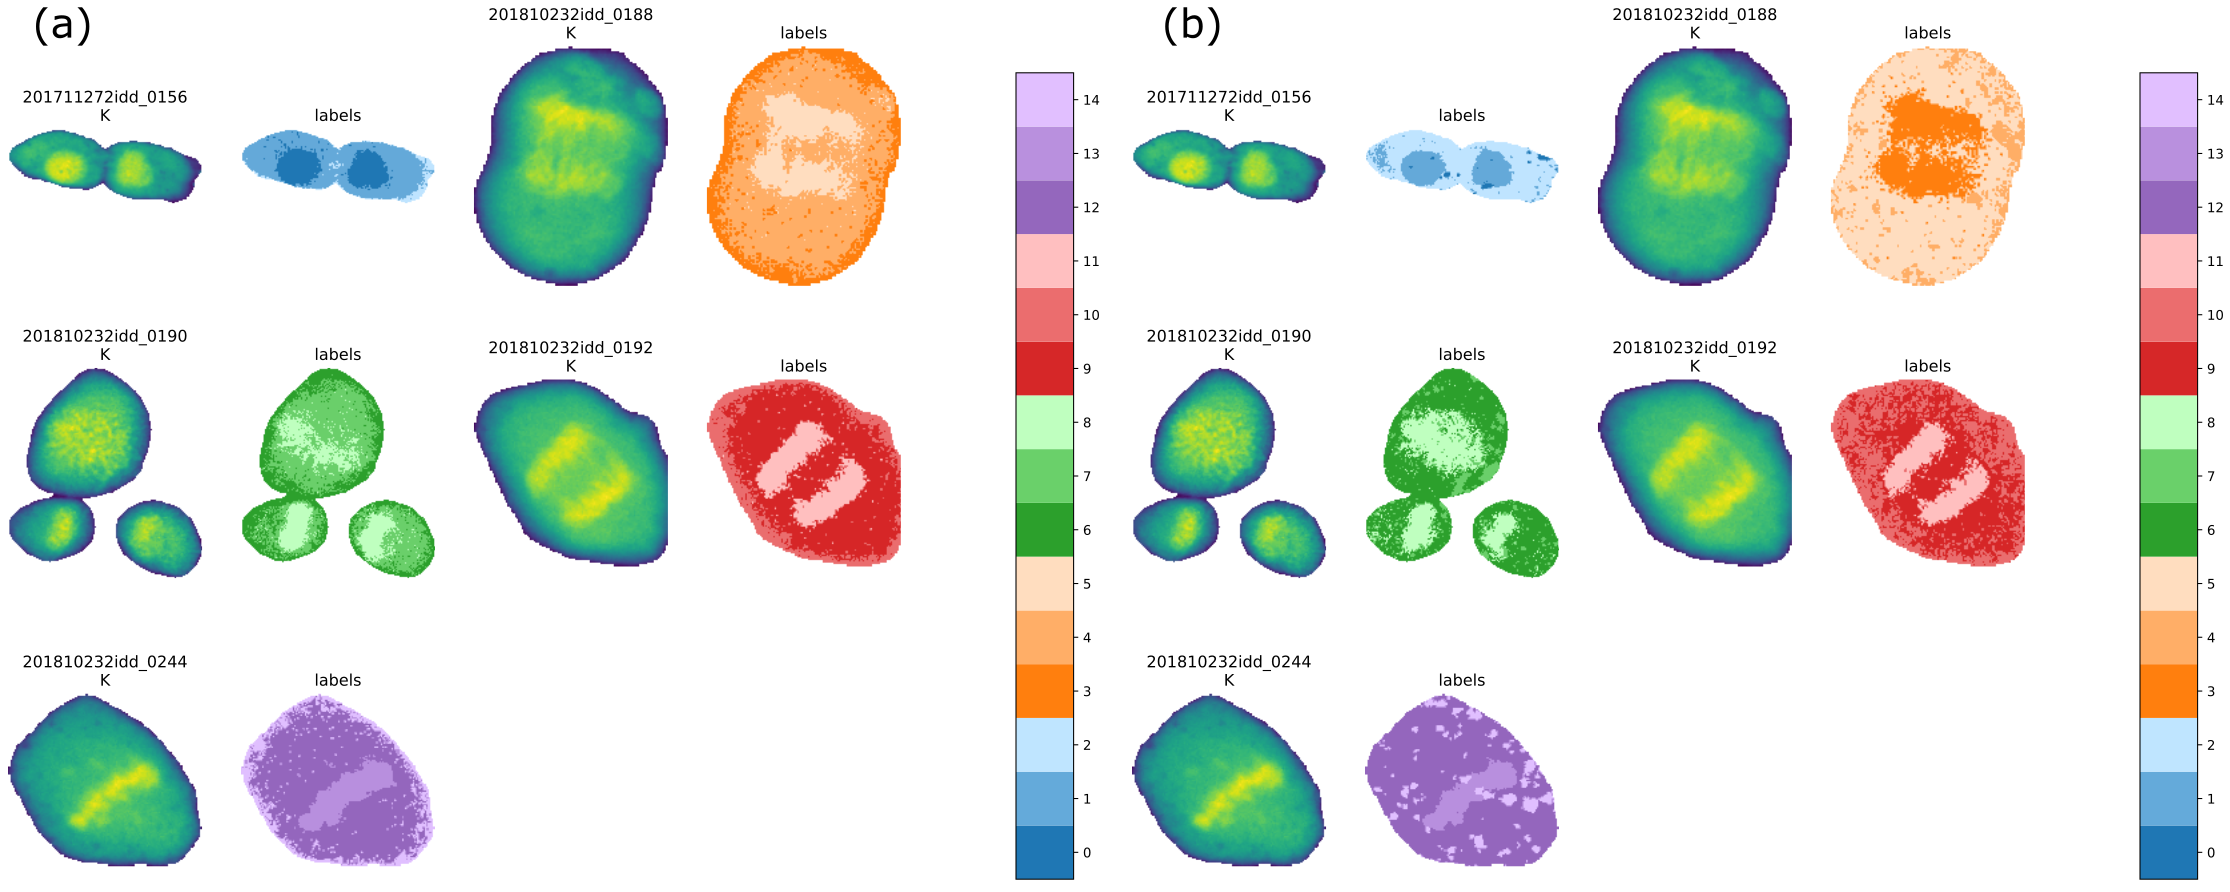
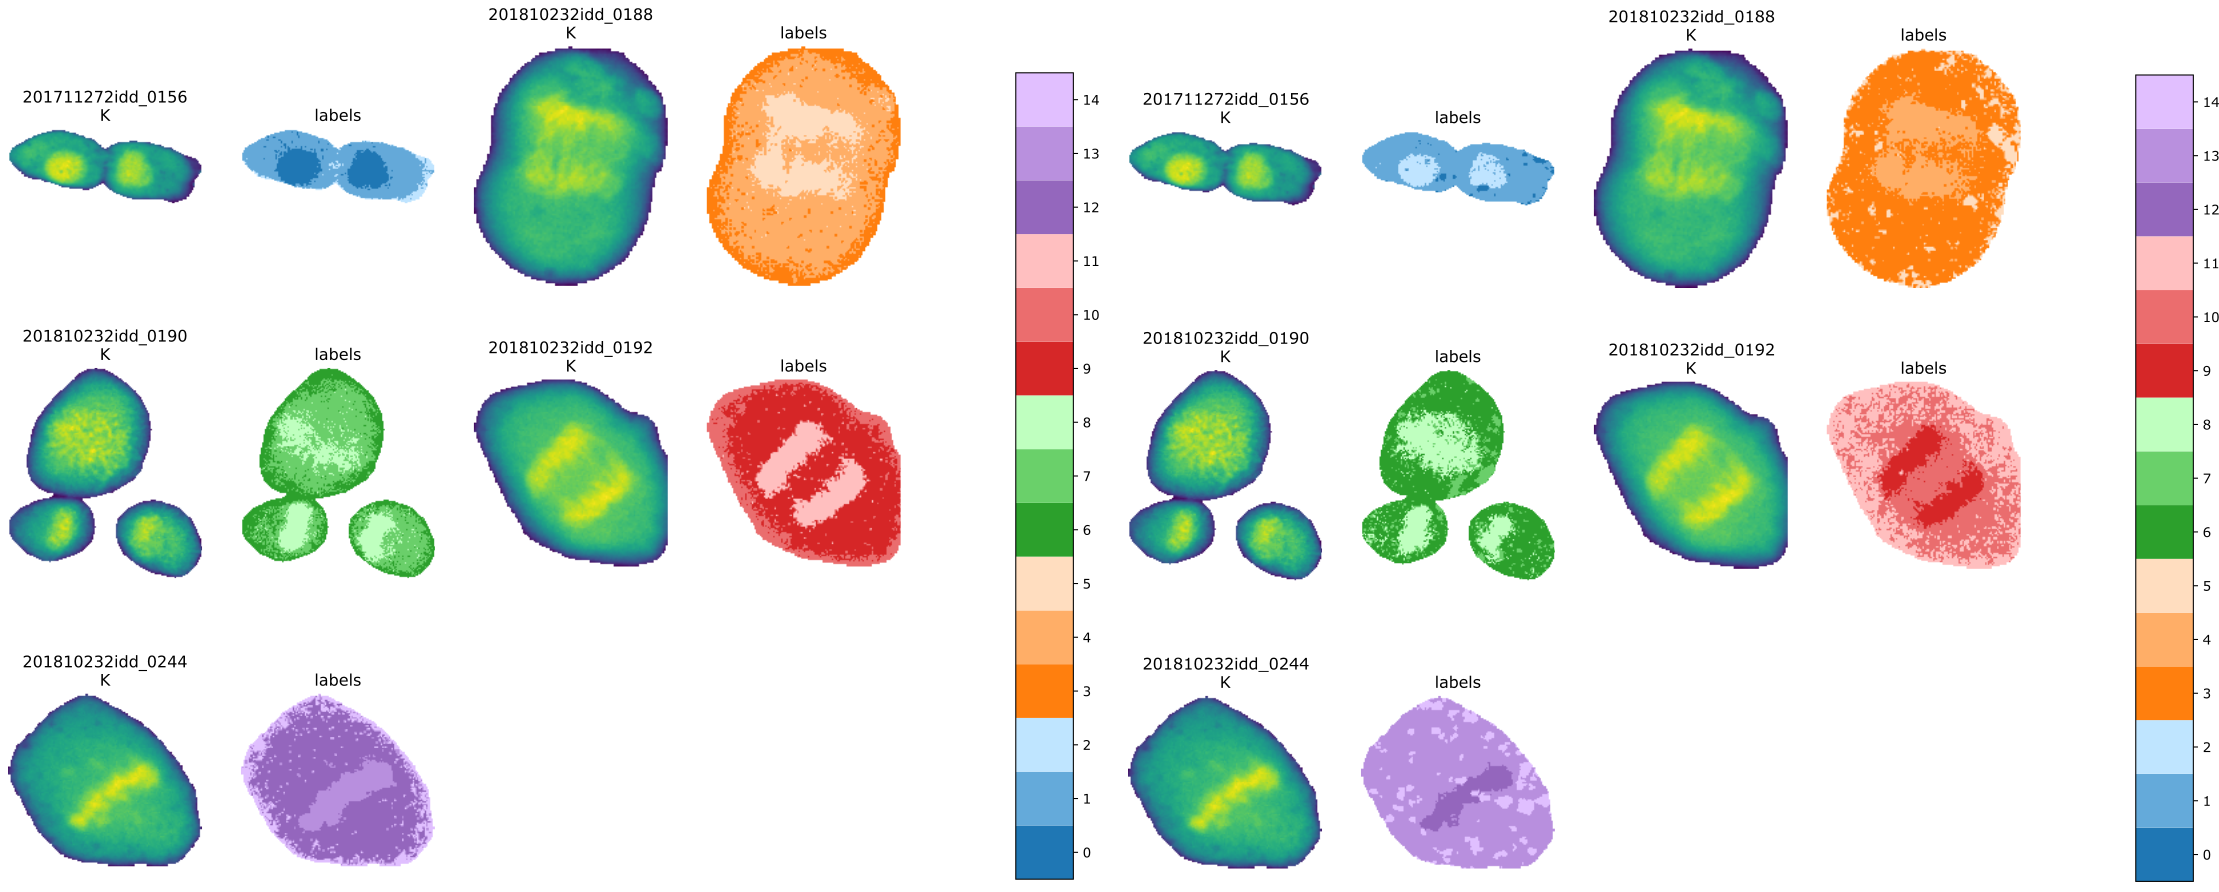
Added cluster correlation.

diff --git a/vMF.tex b/vMF.tex
@@ -63,6 +63,14 @@ $$f(\boldsymbol{x}|\boldsymbol{\mu}, \kappa) = c_d(\kappa)e^{\kappa\boldsymbol{\
 \end{figure}
 \end{frame}
 
+%page 8
+\begin{frame}{Why vMF not Gaussians?}
+\begin{figure}[h]
+  \includegraphics[width=1\textwidth,height=.5\textheight,keepaspectratio]{Normalization.png}
+  \caption{In a 2D XRF projection increasing brightness may be due to overlapping regions or regions with higher concentration making it difficult to discern between the two. Because of this I chose to normalize the data and cluster only based on element composition, not concentration.}
+\end{figure}
+\end{frame}
+
 %page 4
 \subsection[Short Subsection 3 Name]{Full Subsection 3 Name}
 
@@ -78,9 +86,9 @@ $$f(\boldsymbol{x}|\boldsymbol{\mu}, \kappa) = c_d(\kappa)e^{\kappa\boldsymbol{\
 \begin{frame}{Prepossessing BNP data}
 For BNP data each pixel is its own d-dimensional elemental concentration vector, 
 $$\boldsymbol{X_p} = (X_1, X_2, ..., X_d).$$
-Each component, $X_i$, is that elements concentration for a given pixel and has units $\mu g/cm^2$. Normalizing $\boldsymbol{X_p}$ gives relative composition vector,
-$$ \boldsymbol{x_p} = \boldsymbol{X_p}/||\boldsymbol{X_p}||.$$
-representing the percent composition of each element in a given pixel and embedding all points in the positive orthant of the unit hypersphere. 
+Each component, $X_i$, is that elements concentration for a given pixel and has units $\mu g/cm^2$. 
+
+The variance of these elements will be over much different ranges, but vMF is univariate and expect normal distributions. To deal with this we scale our data using a robust scaler. Robust scaler preprocessing rescales element values to the interquartile range.
 \end{frame}
 
 %page 6
@@ -95,15 +103,7 @@ representing the percent composition of each element in a given pixel and embedd
 \begin{frame}{Why preprocess the data?}
 \begin{figure}[h]
   \includegraphics[width=1\textwidth,height=.7\textheight,keepaspectratio]{labels_compare_preprocessing.png}
-  \caption{Side by side of potassium channel and labeled regions for two different preprocessing methods. (a) No preprocessing applied (b) robust scaler preprocessing rescales element values to the interquartile range.}
-\end{figure}
-\end{frame}
-
-%page 8
-\begin{frame}{Why normalize the data?}
-\begin{figure}[h]
-  \includegraphics[width=1\textwidth,height=.5\textheight,keepaspectratio]{Normalization.png}
-  \caption{In a 2D XRF projection increasing brightness may be due to overlapping regions or regions with higher concentration making it difficult to discern between the two. Because of this I chose to normalize the data and cluster only based on element composition, not concentration.}
+  \caption{Side by side of potassium channel and labeled regions for two different preprocessing methods. Left: No preprocessing applied, right: robust scaler preprocessing rescales element values to the interquartile range.}
 \end{figure}
 \end{frame}
 
@@ -121,6 +121,19 @@ representing the percent composition of each element in a given pixel and embedd
     \item TFY as weight.
 \end{itemize}
 \end{itemize}
+\end{frame}
+
+\begin{frame}{Cluster correlation.}
+\begin{figure}
+    \centering
+    \includegraphics[width=1\textwidth,height=1\textheight,keepaspectratio]{Cluster_corr.png}
+    \caption{Cluster correlations for cell \_244.}
+    \label{fig:my_label}
+\end{figure}
+\end{frame}
+
+\begin{frame}{Warning: construction ahead.}
+    Everything beyond this point is a work in progress.
 \end{frame}
 
 %page 10
